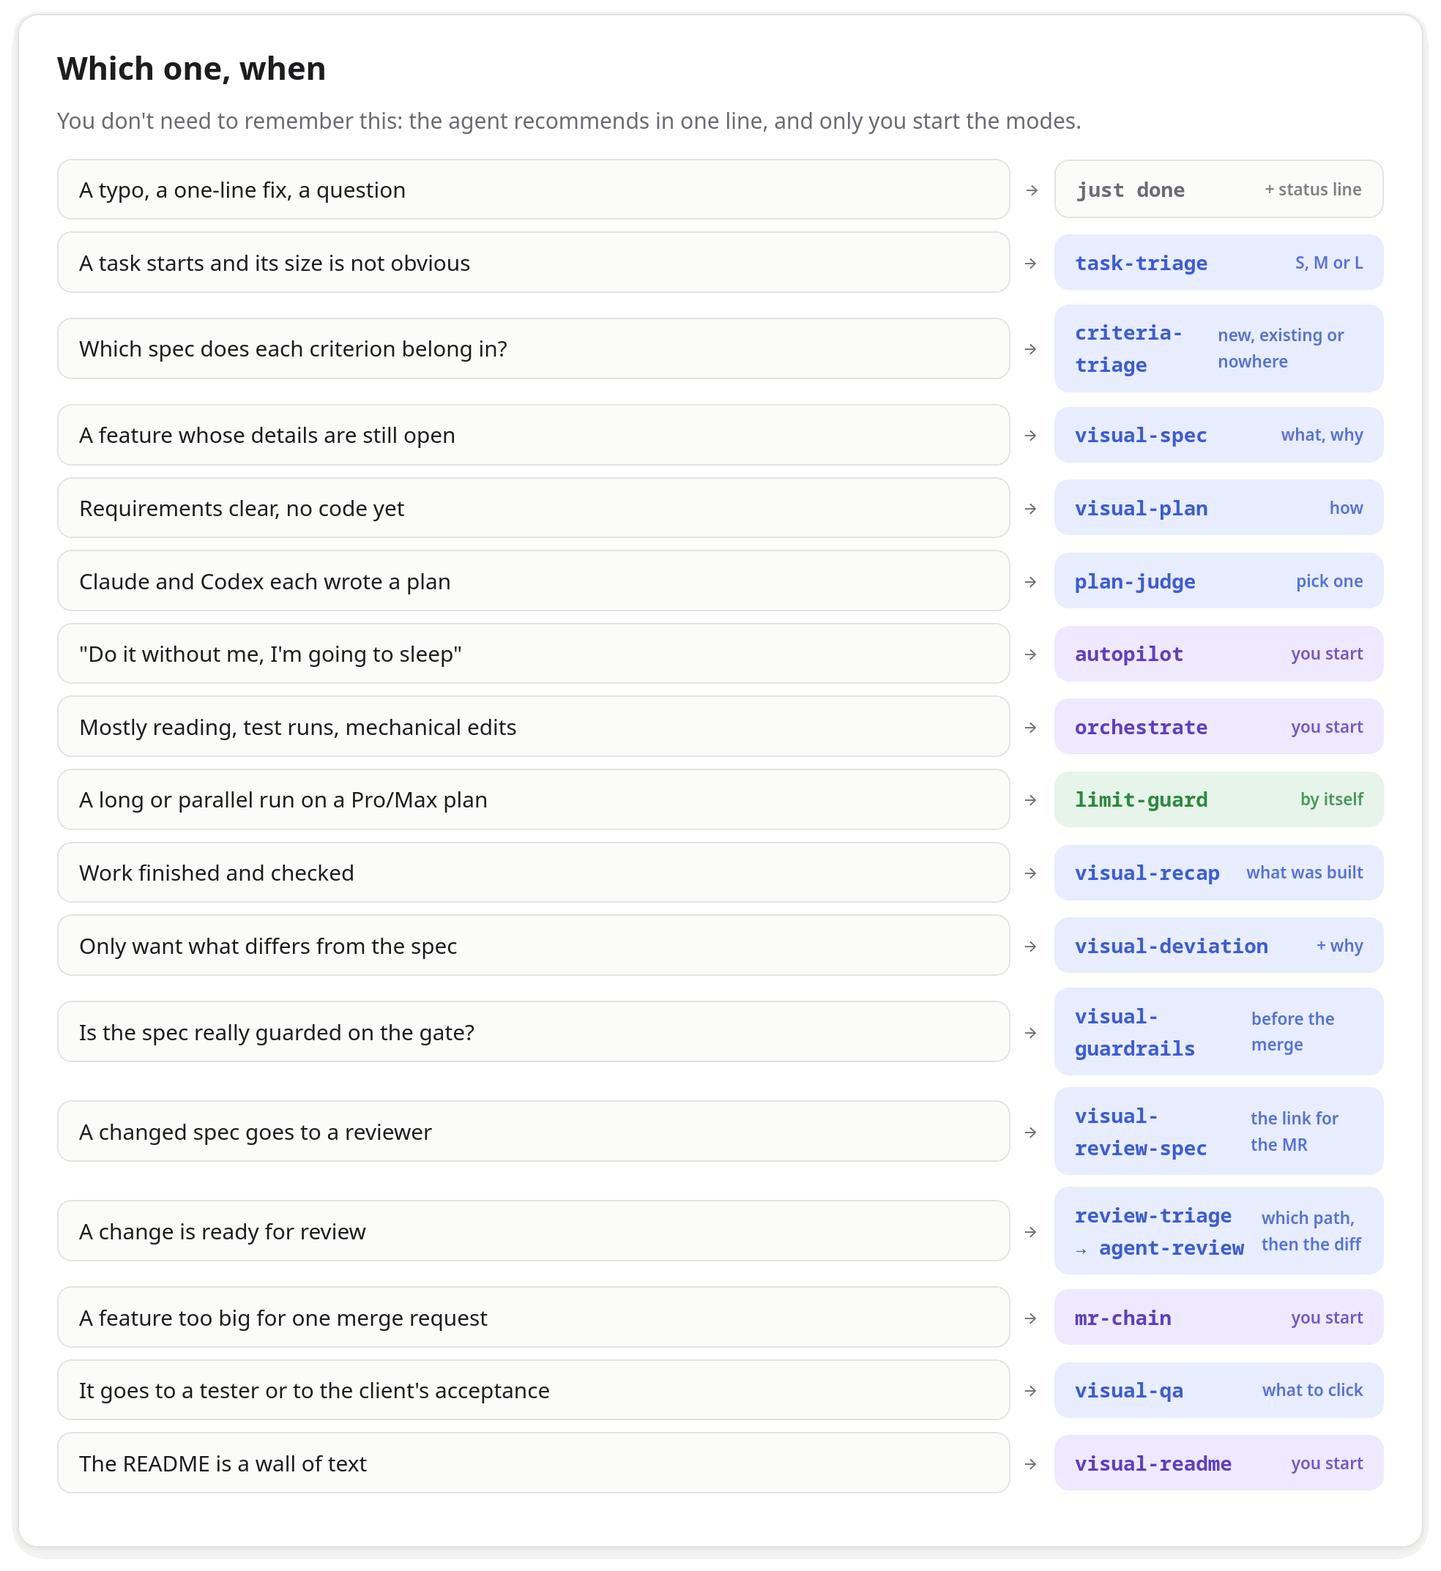
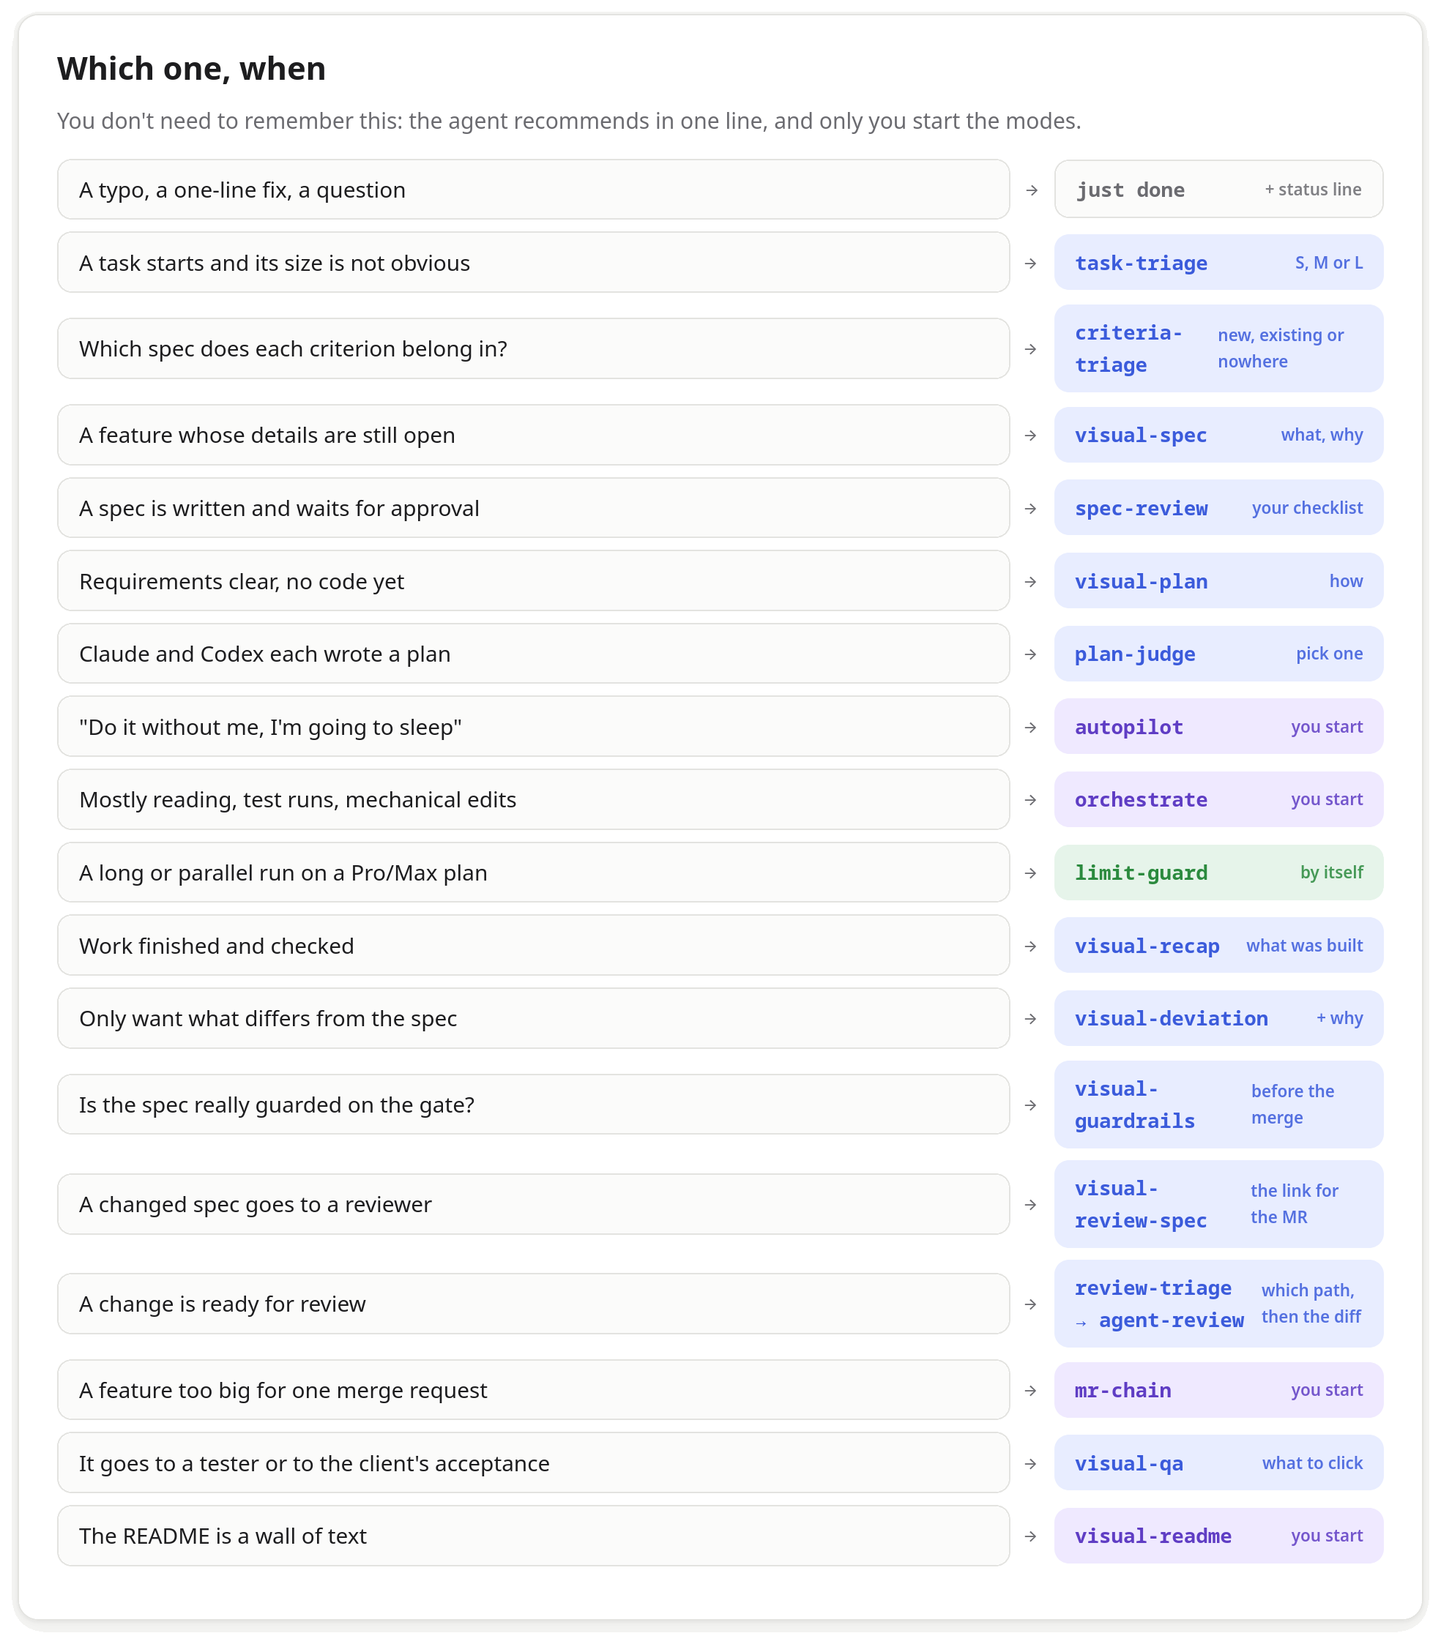
README: spec-review, specs of what is settled, current counts

diff --git a/docs/visual/board/readme.html b/docs/visual/board/readme.html
@@ -382,8 +382,8 @@ pre.out { font: 12px/1.5 var(--mono); background: var(--code-bg); border: 1px so
       </div>
     </div>
     <div class="stats">
-      <div><b>5</b><span>kinds of page: spec, plan, recap, deviation, QA</span></div>
-      <div><b>13</b><span>skills, started by you or the agent</span></div>
+      <div><b>8</b><span>kinds of page: spec, plan, recap, deviation, QA, guardrails, review, review-spec</span></div>
+      <div><b>20</b><span>skills, started by you or the agent</span></div>
       <div><b>1</b><span>hook: the same rules in every project</span></div>
       <div><b>0</b><span>accounts or API keys to set up</span></div>
     </div>
@@ -425,7 +425,7 @@ pre.out { font: 12px/1.5 var(--mono); background: var(--code-bg); border: 1px so
       <ul><li>S: ticket + test</li><li>M: delta in spec</li><li>L: spec + plan</li></ul>
       <div class="foot"><span class="btn ok">✅ one word</span></div></div>
     <div><span class="tag accent">visual-spec</span><h4>Spec</h4><p class="when">one living spec per feature</p>
-      <ul><li><b>criteria-triage</b>: where each criterion goes</li><li>what and why</li><li>criteria with ids</li><li>decisions</li></ul>
+      <ul><li><b>criteria-triage</b>: where each criterion goes</li><li>what and why</li><li>criteria with ids</li><li>decisions</li><li><b>spec-review</b>: worth it?</li></ul>
       <div class="foot"><span class="btn ok">✅ Approve</span></div></div>
     <div><span class="tag accent">visual-plan</span><h4>Plan</h4><p class="when">how</p>
       <ul><li>decisions</li><li>diagram</li><li>file map</li><li>steps</li></ul>
@@ -441,7 +441,7 @@ pre.out { font: 12px/1.5 var(--mono); background: var(--code-bg); border: 1px so
       <ul><li>reviewer: <b>review-spec</b> + guardrails page</li><li><b>agent-review</b>: the diff</li><li>careful path: the diff too</li></ul>
       <div class="foot"><span class="tag ok">merge</span></div></div>
     <div><span class="tag accent">visual-qa</span><h4>Test</h4><p class="when">for the tester</p>
-      <ul><li>environment</li><li>what to click</li><li>expected screens</li></ul>
+      <ul><li>where</li><li>what to click</li><li>expected screens</li></ul>
       <div class="foot"><span class="tag ok">pass</span> <span class="tag bad">fail</span></div></div>
   </div>
   <div class="strip">
@@ -463,21 +463,22 @@ pre.out { font: 12px/1.5 var(--mono); background: var(--code-bg); border: 1px so
 <section id="skills">
   <div class="group">📄 Visual documents</div>
   <div class="cards" style="--cols:3">
-    <div><span class="ico">🎯</span><h4><code>visual-spec</code></h4><p class="when">before planning a larger change</p><p>problem, goals, scenarios, edge cases, UI sketches, acceptance criteria</p><div class="foot"><span class="tag accent">what and why</span></div></div>
+    <div><span class="ico">🎯</span><h4><code>visual-spec</code></h4><p class="when">before planning a larger change</p><p>problem, scenarios, behaviour, UI sketches, acceptance criteria, rejected approaches; only what is settled</p><div class="foot"><span class="tag accent">what and why</span></div></div>
     <div><span class="ico">🗺</span><h4><code>visual-plan</code></h4><p class="when">before writing code</p><p>decisions, architecture diagram, file map, ordered steps, risks</p><div class="foot"><span class="tag accent">how</span></div></div>
     <div><span class="ico">🔍</span><h4><code>visual-recap</code></h4><p class="when">after the work is done</p><p>roles, a real scenario, annotated screenshots, criteria with evidence</p><div class="foot"><span class="tag accent">what was built</span></div></div>
     <div><span class="ico">↔</span><h4><code>visual-deviation</code></h4><p class="when">you want only the differences</p><p>where the build departs from the spec: promised vs built, why, keep / fix / decide</p><div class="foot"><span class="tag accent">accepted ones go into the final spec</span></div></div>
     <div><span class="ico">🧪</span><h4><code>visual-qa</code></h4><p class="when">work goes to a tester</p><p>where to test, scenarios as user clicks, the expected screen for each, a results sheet</p><div class="foot"><span class="tag accent">for the tester</span></div></div>
-    <div><span class="ico">🛡</span><h4><code>visual-guardrails</code></h4><p class="when">before a spec'd feature is merged</p><p>criterion → guardrail matrix: is each one guarded on the gate, and would the guardrail fail if the behaviour broke</p><div class="foot"><span class="tag accent">judged by an agent that did not write the code</span></div></div>
+    <div><span class="ico">🛡</span><h4><code>visual-guardrails</code></h4><p class="when">before a spec'd feature is merged</p><p>criterion → guardrail matrix: is each one guarded on the gate, and would the guardrail fail if the behaviour broke</p><div class="foot"><span class="tag accent">judged by a separate agent</span></div></div>
     <div><span class="ico">📌</span><h4><code>visual-review-spec</code></h4><p class="when">a changed spec goes to a reviewer</p><p>one frozen page per task: a new spec whole, an edited one as the change, one link for the merge request</p><div class="foot"><span class="tag accent">what this task changed</span></div></div>
     <div><span class="ico">🔎</span><h4><code>agent-review</code></h4><p class="when">a change is ready for review</p><p>a separate reviewer reads the diff: bugs, edge cases, scope beyond the spec, each with file:line and a severity</p><div class="foot"><span class="tag accent">you read this, not the diff</span></div></div>
     <div><span class="ico">⚖</span><h4><code>plan-judge</code></h4><p class="when">2+ plans for one task</p><p>compared against the real code: adopt, merge or send back</p><div class="foot"><span class="tag accent">several plans → 1</span></div></div>
   </div>
   <div class="group">⚙ Ways of working</div>
-  <div class="cards" style="--cols:3">
+  <div class="cards" style="--cols:5">
     <div><span class="ico">📏</span><h4><code>task-triage</code></h4><p class="when">a task starts</p><p>S (ticket + test), M (delta in the feature's living spec) or L (spec + plan), and which spec it belongs to</p><div class="foot"><span class="tag ok">you confirm in a word</span></div></div>
     <div><span class="ico">🧩</span><h4><code>criteria-triage</code></h4><p class="when">before the criteria are written</p><p>each criterion on its own: new spec, an existing spec, edit or remove an existing one, or nowhere</p><div class="foot"><span class="tag ok">you confirm it</span></div></div>
-    <div><span class="ico">🚦</span><h4><code>review-triage</code></h4><p class="when">a change is ready</p><p>ordinary path (spec, guardrails page, recap; an agent reads the diff) or careful (you read the diff too), from a short always-careful list</p><div class="foot"><span class="tag ok">no ladder of trust levels</span></div></div>
+    <div><span class="ico">🧐</span><h4><code>spec-review</code></h4><p class="when">a spec waits for approval</p><p>should it exist, are its guardrails fast, is its text redundant</p><div class="foot"><span class="tag ok">read-only</span></div></div>
+    <div><span class="ico">🚦</span><h4><code>review-triage</code></h4><p class="when">a change is ready</p><p>ordinary path (spec, guardrails page, recap; an agent reads the diff) or careful (you read the diff too), from a short always-careful list</p><div class="foot"><span class="tag ok">two paths</span></div></div>
     <div><span class="ico">🔗</span><h4><code>mr-chain</code></h4><p class="when">a feature too big for one MR</p><p>stacked merge requests, each on the previous one; fixes on the earliest branch, merged down</p><div class="foot"><span class="tag note">you start it</span></div></div>
     <div><span class="ico">🌙</span><h4><code>autopilot</code></h4><p class="when">you leave it alone with a task</p><p>no routine questions, every decision logged, ends with a recap</p><div class="foot"><span class="tag note">you start it</span></div></div>
     <div><span class="ico">🧭</span><h4><code>orchestrate</code></h4><p class="when">lots of reading, tests, mechanical edits</p><p>the main model decides; haiku and sonnet subagents do the volume, ≤ 3 at a time</p><div class="foot"><span class="tag note">you start it</span></div></div>
@@ -495,6 +496,7 @@ pre.out { font: 12px/1.5 var(--mono); background: var(--code-bg); border: 1px so
     <div class="if">A task starts and its size is not obvious</div><div class="then">task-triage <small>S, M or L</small></div>
     <div class="if">Which spec does each criterion belong in?</div><div class="then">criteria-triage <small>new, existing or nowhere</small></div>
     <div class="if">A feature whose details are still open</div><div class="then">visual-spec <small>what, why</small></div>
+    <div class="if">A spec is written and waits for approval</div><div class="then">spec-review <small>your checklist</small></div>
     <div class="if">Requirements clear, no code yet</div><div class="then">visual-plan <small>how</small></div>
     <div class="if">Claude and Codex each wrote a plan</div><div class="then">plan-judge <small>pick one</small></div>
     <div class="if">"Do it without me, I'm going to sleep"</div><div class="then note">autopilot <small>you start</small></div>

diff --git a/README.md b/README.md
@@ -1,6 +1,6 @@
 <picture>
   <source media="(prefers-color-scheme: dark)" srcset="docs/visual/board/img/readme/hero-dark.png">
-  <img alt="suwagent, a Claude Code plugin: review your coding agent's work on visual pages, not walls of text. Spec → plan → recap or deviation, a test guide for the tester, a 🟢🟡🔴 status line, autopilot and orchestrate, docs before code. 5 kinds of page, 13 skills, 1 hook, 0 accounts or API keys." src="docs/visual/board/img/readme/hero-light.png" width="100%">
+  <img alt="suwagent, a Claude Code plugin: review your coding agent's work on visual pages, not walls of text. Spec → plan → recap or deviation, a test guide for the tester, a 🟢🟡🔴 status line, autopilot and orchestrate, docs before code. 8 kinds of page, 20 skills, 1 hook, 0 accounts or API keys." src="docs/visual/board/img/readme/hero-light.png" width="100%">
 </picture>
 
 ## Install
@@ -30,18 +30,20 @@ Requirements: `git` and `python3` (standard library only).
 
 <picture>
   <source media="(prefers-color-scheme: dark)" srcset="docs/visual/board/img/readme/flow-dark.png">
-  <img alt="One larger task: Size with task-triage (S: ticket and test, M: delta in the spec, L: spec and plan; you confirm in a word) → Spec (criteria-triage routes each criterion; one living spec per feature: what and why, criteria with ids, decisions, contract; approve) → Plan (how, approve) → Build (only after approval, docs first, optionally autopilot or orchestrate) → Recap (what was built, criteria checked, the guardrails page: does each criterion have a check that fails), or visual-deviation (only what differs) → Review (two paths: the reviewer reads the review-spec page and the guardrails page, agent-review reads the diff; on the careful path the reviewer reads it too) → Test with visual-qa. On every page: comment, answer questions, Approve or Request changes, Copy feedback for the agent. In git: plan, recap, deviation, QA, guardrails, review and review-spec pages in .gitignore, only the final spec committed. Answers end with a status line: 🟢 done, 🟡 pending, 🔴 waiting for you." src="docs/visual/board/img/readme/flow-light.png" width="100%">
+  <img alt="One larger task: Size with task-triage (S: ticket and test, M: delta in the spec, L: spec and plan; you confirm in a word) → Spec (criteria-triage routes each criterion; one living spec per feature: what and why, criteria with ids, decisions and rejected approaches, contract; spec-review checks it; approve) → Plan (how, approve) → Build (only after approval, docs first, optionally autopilot or orchestrate) → Recap (what was built, criteria checked, the guardrails page: does each criterion have a check that fails), or visual-deviation (only what differs) → Review (two paths: the reviewer reads the review-spec page and the guardrails page, agent-review reads the diff; on the careful path the reviewer reads it too) → Test with visual-qa. On every page: comment, answer questions, Approve or Request changes, Copy feedback for the agent. In git: plan, recap, deviation, QA, guardrails, review and review-spec pages in .gitignore, only the final spec committed. Answers end with a status line: 🟢 done, 🟡 pending, 🔴 waiting for you." src="docs/visual/board/img/readme/flow-light.png" width="100%">
 </picture>
 
 You don't have to remember any command: the agent offers each page in one line when a task is big
 enough. Every page is a self-contained HTML file in `docs/visual/<spec|plan|recap|deviation|qa|guardrails|review|review-spec>/`, and by
 default also a private claude.ai artifact you can open and comment on from any device.
 
-Four skills carry the method around the pages. `/suwagent:task-triage` sizes a task before anything
+Five skills carry the method around the pages. `/suwagent:task-triage` sizes a task before anything
 else (S: a ticket and a test, M: a delta in the feature's living spec, L: a spec and a plan) and names
 the spec it belongs to. `/suwagent:criteria-triage` then routes each acceptance criterion on its own
 (a new spec, an existing spec, an edit or removal of an existing criterion, or nowhere), so a feature's
-criteria don't all land in one new file by default. `/suwagent:review-triage` tells a reviewer which of two paths a finished change
+criteria don't all land in one new file by default. `/suwagent:spec-review` checks a written spec against
+a checklist before you approve it: should it exist at all, are the guardrails of its criteria fast enough to be
+worth their cost, does its prose repeat a criterion. `/suwagent:review-triage` tells a reviewer which of two paths a finished change
 takes: ordinary (read the spec, the guardrails page and the recap; a separate agent reads the diff) or
 careful (read the diff too), decided by a short always-careful list, not by a ladder of trust levels.
 `/suwagent:visual-review-spec` is what a teammate gets instead of a link to the living spec, which also
@@ -72,6 +74,10 @@ that it is a good one: it asserts what the criterion promises, and for the key c
 breaks the behaviour in a throwaway worktree to see the guardrail go red. The page is a criterion → guardrail matrix (guarded, weak, off the gate, none,
 manual only), and each gap gets a proposed guardrail with its kind, place and cost; you tick the ones
 to add. `/suwagent:visual-guardrails all` checks every spec in `docs/visual/spec/` at once.
+
+A spec page says what and why only, in the present tense: what the change replaces goes to its Rejected
+approaches, so the text stays true after the merge. Each criterion on the page has a button that copies a prompt
+asking an LLM how its tests guard it.
 
 ### Spec ↔ guardrails sync on the gate
 
@@ -157,12 +163,12 @@ This is what one looks like — [the recap of this repository](docs/visual/recap
 
 <picture>
   <source media="(prefers-color-scheme: dark)" srcset="docs/visual/board/img/readme/skills-dark.png">
-  <img alt="Visual documents: visual-spec (what and why), visual-plan (how), visual-recap (what was built), visual-deviation (only the differences from the spec), visual-qa (a test guide for the tester), visual-guardrails (criterion → guardrail matrix, judged by an agent that did not write the code), visual-review-spec (one frozen page per task: what it did to the living specs, the link for the merge request), agent-review (a separate reviewer reads the diff; you read this page, not the diff), plan-judge (several plans into one). Ways of working: task-triage (S, M or L, you confirm in a word), criteria-triage (each criterion: new spec, an existing spec, edit or remove an existing one, or nowhere), review-triage (ordinary or careful path, no ladder of trust levels), mr-chain (you start it; stacked merge requests), autopilot (you start it), orchestrate (you start it; the main model decides, cheaper subagents do the volume), limit-guard (pauses near the plan's limits), mandatory-docs (automatic; official docs of the installed version), visual-readme (you start it)." src="docs/visual/board/img/readme/skills-light.png" width="100%">
+  <img alt="Visual documents: visual-spec (what and why), visual-plan (how), visual-recap (what was built), visual-deviation (only the differences from the spec), visual-qa (a test guide for the tester), visual-guardrails (criterion → guardrail matrix, judged by a separate agent that did not write the code), visual-review-spec (one frozen page per task: what it did to the living specs, the link for the merge request), agent-review (a separate reviewer reads the diff; you read this page, not the diff), plan-judge (several plans into one). Ways of working: task-triage (S, M or L, you confirm in a word), criteria-triage (each criterion: new spec, an existing spec, edit or remove an existing one, or nowhere), spec-review (a written spec against your checklist: should it exist, are its guardrails fast, is its text redundant), review-triage (ordinary or careful path, no ladder of trust levels), mr-chain (you start it; stacked merge requests), autopilot (you start it), orchestrate (you start it; the main model decides, cheaper subagents do the volume), limit-guard (pauses near the plan's limits), mandatory-docs (automatic; official docs of the installed version), visual-readme (you start it)." src="docs/visual/board/img/readme/skills-light.png" width="100%">
 </picture>
 
 <picture>
   <source media="(prefers-color-scheme: dark)" srcset="docs/visual/board/img/readme/choose-dark.png">
-  <img alt="Which one, when: a typo or question → just done; a task starts and its size is not obvious → task-triage; which spec each criterion belongs in → criteria-triage; details still open → visual-spec; requirements clear → visual-plan; two plans → plan-judge; 'do it without me' → autopilot; mostly reading, tests, mechanical edits → orchestrate; a long run on Pro/Max → limit-guard; work finished → visual-recap; only what differs from the spec → visual-deviation; is the spec really guarded on the gate → visual-guardrails; a spec changed and it goes to a reviewer → visual-review-spec; a change is ready for review → review-triage, then agent-review; a feature too big for one merge request → mr-chain; the README is a wall of text → visual-readme." src="docs/visual/board/img/readme/choose-light.png" width="100%">
+  <img alt="Which one, when: a typo or question → just done; a task starts and its size is not obvious → task-triage; which spec each criterion belongs in → criteria-triage; details still open → visual-spec; a spec waits for approval → spec-review; requirements clear → visual-plan; two plans → plan-judge; 'do it without me' → autopilot; mostly reading, tests, mechanical edits → orchestrate; a long run on Pro/Max → limit-guard; work finished → visual-recap; only what differs from the spec → visual-deviation; is the spec really guarded on the gate → visual-guardrails; a spec changed and it goes to a reviewer → visual-review-spec; a change is ready for review → review-triage, then agent-review; a feature too big for one merge request → mr-chain; the README is a wall of text → visual-readme." src="docs/visual/board/img/readme/choose-light.png" width="100%">
 </picture>
 
 All skills are invoked as `/suwagent:<name>`; `/suwagent:efficient-frontier` is an alias of
@@ -291,6 +297,7 @@ plugins/suwagent/
   skills/visual-{spec,plan,recap,deviation,qa,guardrails,review-spec}/  the visual document skills (SKILL.md each)
   skills/visual-readme/             the README told in pictures, from a board page
   skills/mandatory-docs/            docs-before-code procedure
+  skills/task-triage/ criteria-triage/ spec-review/ review-triage/ agent-review/   the method around the pages
   skills/autopilot/ orchestrate/ plan-judge/ limit-guard/   ways of working
   skills/mr-chain/                  a feature delivered as stacked MRs
   skills/efficient-frontier/        alias of orchestrate
